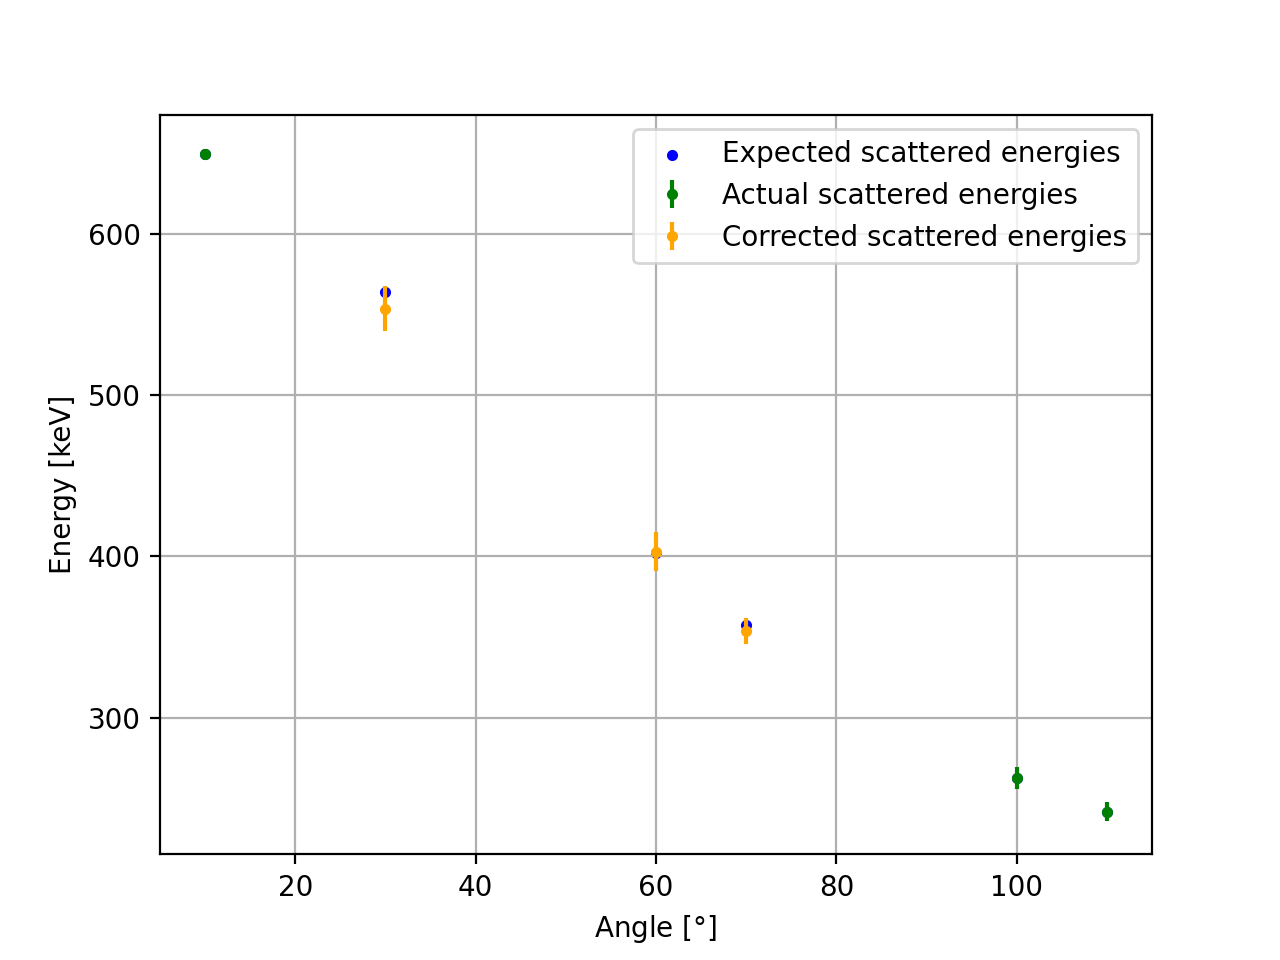
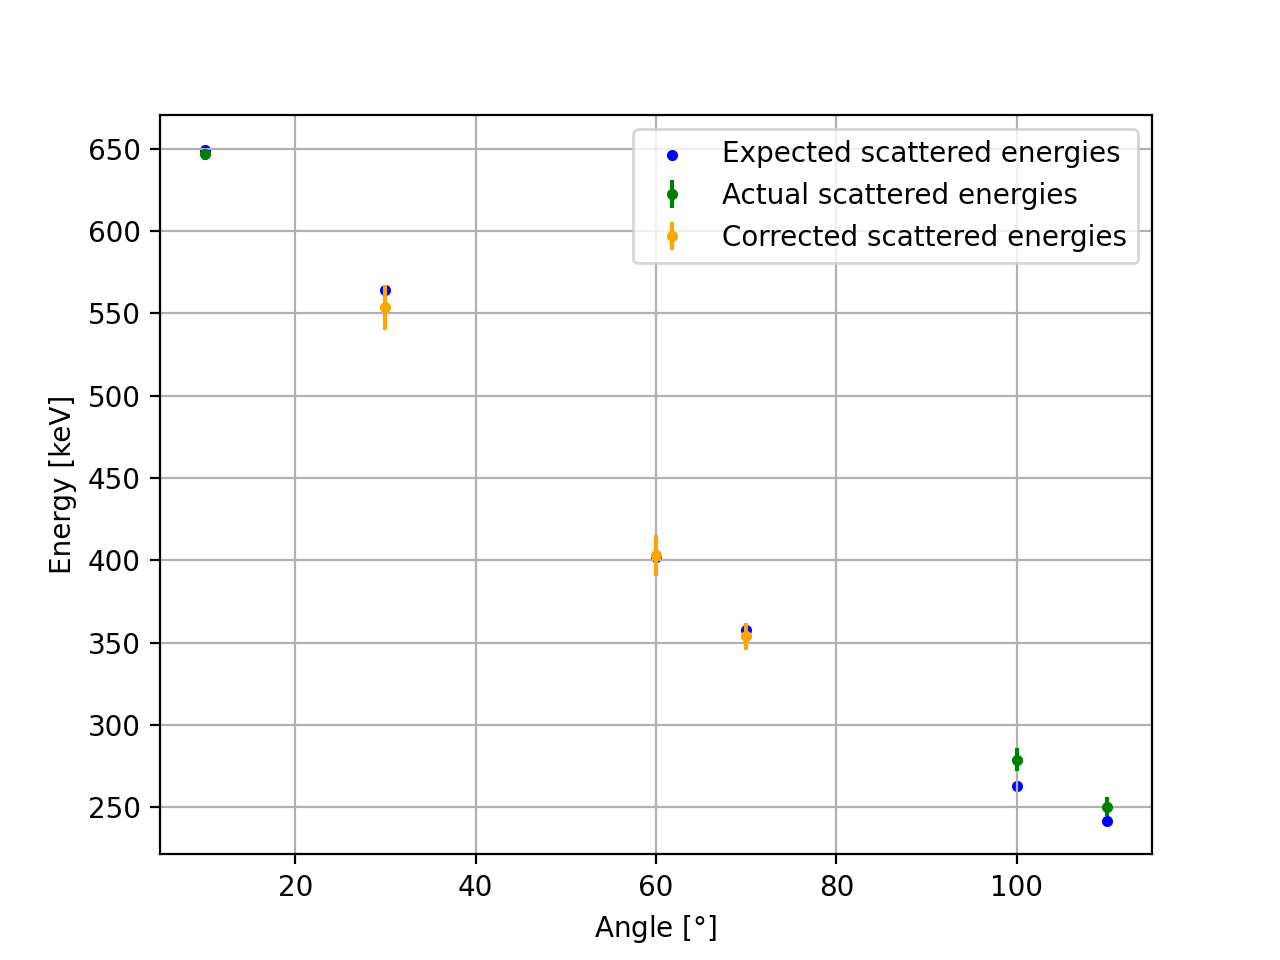
:clown_face: Don't use expected values for measurements

diff --git a/lab1-compton/plot-stuff.py b/lab1-compton/plot-stuff.py
@@ -138,7 +138,7 @@ cor_e_err = np.array([
 plt.figure()
 
 act_err = np.array([std_dev_from_fwhm(full_w_half_max[a]) for a in angles], dtype=float) # get error
-plt.errorbar(x_exp[~mask], y_exp[~mask], yerr=act_err[~mask], marker='.', color='green', linestyle='none', label="Actual scattered energies")
+plt.errorbar(x_exp[~mask], y_act[~mask], yerr=act_err[~mask], marker='.', color='green', linestyle='none', label="Actual scattered energies")
 plt.errorbar(x_exp[mask],  y_cor[mask], yerr=cor_e_err[mask], marker='.', color='orange', linestyle='none', label="Corrected scattered energies")
 
 plt.scatter(x_exp, y_exp, marker='.', color='blue', label="Expected scattered energies")
